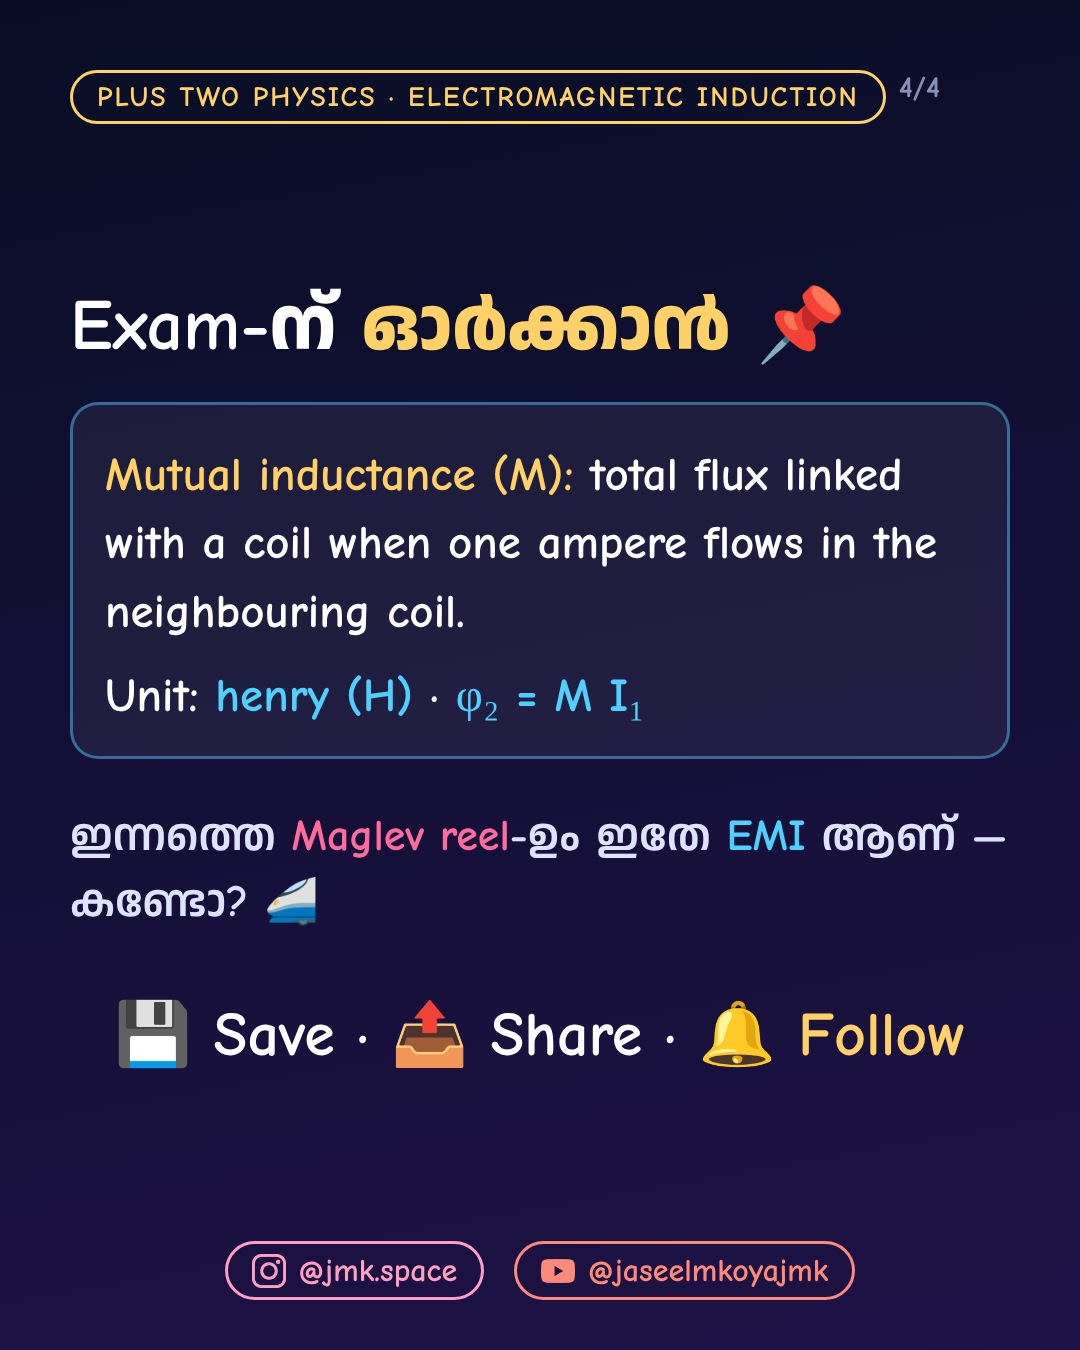
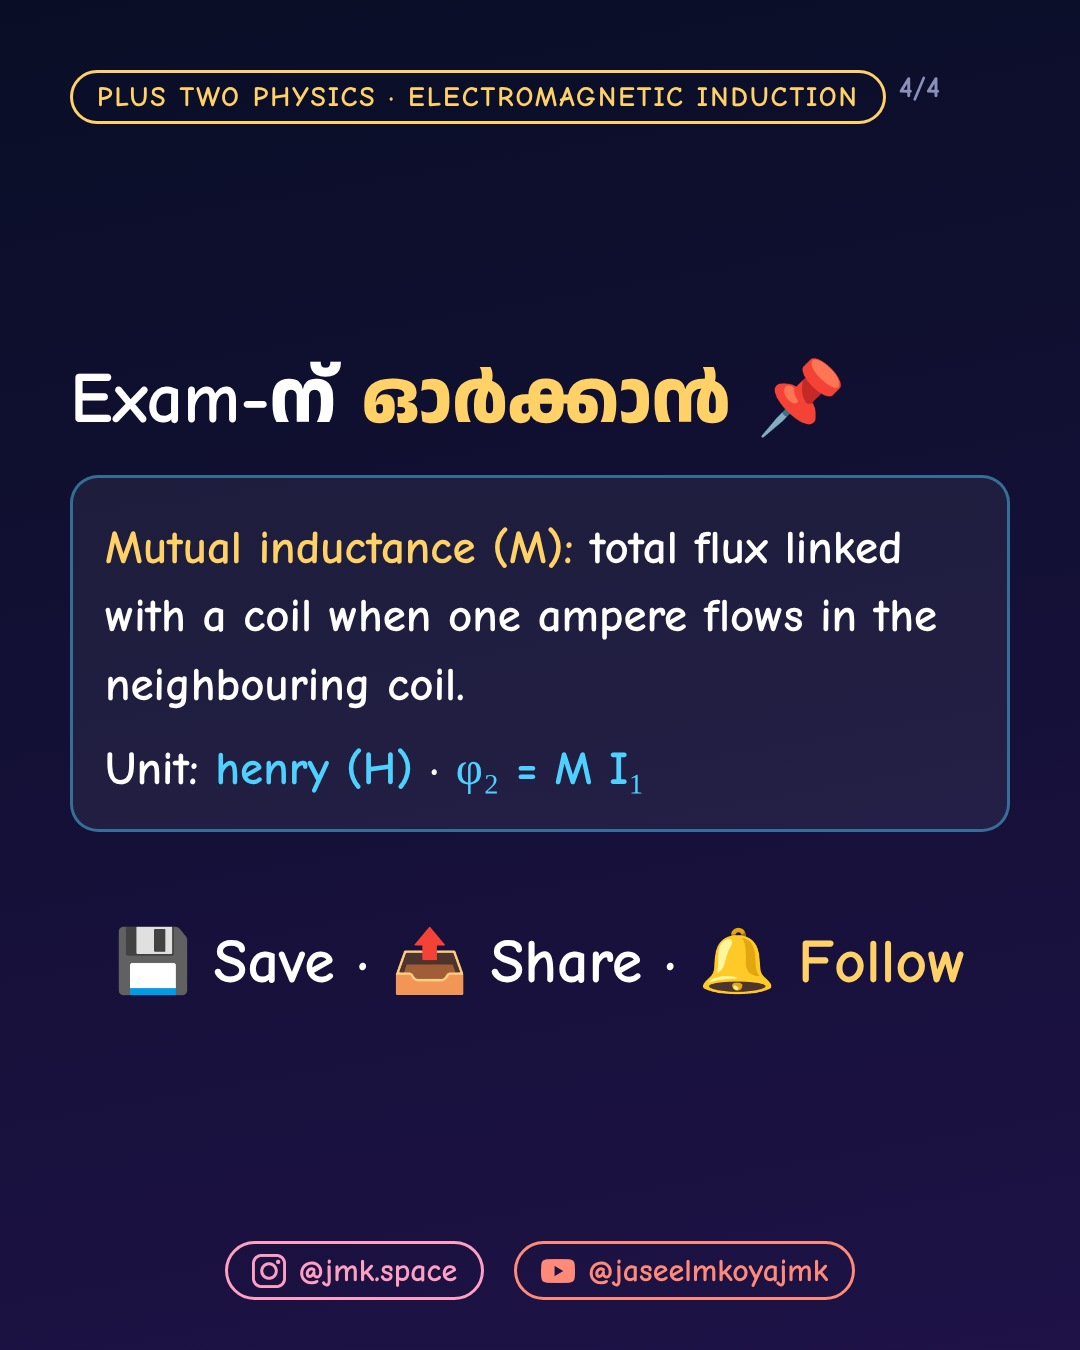
20 Nov post: remove reel teaser story and reel mention (JMK)
Claude-Session: https://claude.ai/code/session_01BtEzKoq4hYZRxetcs1x4NDB

diff --git a/work/posts/2026-11-20/build.py b/work/posts/2026-11-20/build.py
@@ -77,8 +77,7 @@ S4 = f"""{TAG}<div class="num" style="top:0">4/4</div><div class="main">
 <h2>Exam-ന് <span class="y">ഓർക്കാൻ</span> 📌</h2>
 <div class="card"><div class="a"><span class="y">Mutual inductance (M):</span> total flux linked with a coil when one ampere flows in the neighbouring coil.</div>
 <div class="a" style="margin-top:16px">Unit: <span class="c">henry (H)</span> · <span class="c">φ₂ = M I₁</span></div></div>
-<div class="sub" style="margin-top:44px">ഇന്നത്തെ <span class="p">Maglev reel</span>-ഉം ഇതേ <span class="c">EMI</span> ആണ് — കണ്ടോ? 🚄</div>
-<h2 style="text-align:center;font-size:62px;margin-top:60px">💾 Save · 📤 Share · 🔔 <span class="y">Follow</span></h2></div>"""
+<h2 style="text-align:center;font-size:62px;margin-top:90px">💾 Save · 📤 Share · 🔔 <span class="y">Follow</span></h2></div>"""
 
 STA = f"""{TAG}
 <h1 style="margin-top:120px;font-size:96px">ഇന്ന് <span class="y">6:30</span>-ന് പുതിയ reel 🔔</h1>

diff --git a/work/posts/2026-11-20/STATUS.md b/work/posts/2026-11-20/STATUS.md
@@ -1,6 +1,6 @@
 # 2026-11-20 (Fri) · PHYSICS IN REAL LIFE — Wireless phone charging = Mutual induction (Plus Two · Ch6 EMI)
 SCHEDULED
-- Links to today's reel (Maglev — Faraday + Lenz, Ch6 EMI). First run of the daily post routine: work/posts/ did not exist → no 14-day repeat.
+- (Originally linked to today's Maglev reel — removed 20 Nov per JMK, see below.) First run of the daily post routine: work/posts/ did not exist → no 14-day repeat.
 - Feed (4 slides) 20 Nov 20:30 IST: post_6303891436d21024 (med_cac0f209736f0e41, med_5ce6bff826d91766, med_e02459f3a1b50121, med_a92b6f60b5d77593)
 - Story A (reel teaser, maglev hook) 20 Nov 18:05 IST: post_8eb7bfc76582e918 (med_6c0d370fcaa5a73d)
 - Story B ("ഇന്നലത്തെ post miss ചെയ്തോ?" preview of slide 1) 21 Nov 07:30 IST: post_b9c833f31ed22736 (med_e265862aa6b47a2c)
@@ -12,3 +12,7 @@ SCHEDULED
 - Transformer works on mutual induction (material Ch7) ✓. Wireless (Qi-type) charging = inductive coupling; receiver rectifies AC→DC ✓ (standard; no frequencies/numbers used).
 - Story A: 603 km/h SCMaglev record — verified in today's reel STATUS (Wikipedia SCMaglev).
 - No corrections to the material needed. Final rendered images re-read: text, subscripts (ε₂, I₁, φ₂), footer icons OK.
+
+## Change 20 Nov ~09:50 IST (JMK: no reel teaser, no video mention in posts)
+- Story A (reel teaser) post_8eb7bfc76582e918 DELETED (cancelled before 18:05).
+- Slide 4 re-rendered without the "ഇന്നത്തെ Maglev reel…" line → med_19b0900310c4d7ce; caption line about the reel removed. Feed post post_6303891436d21024 updated (still 20:30 IST).
